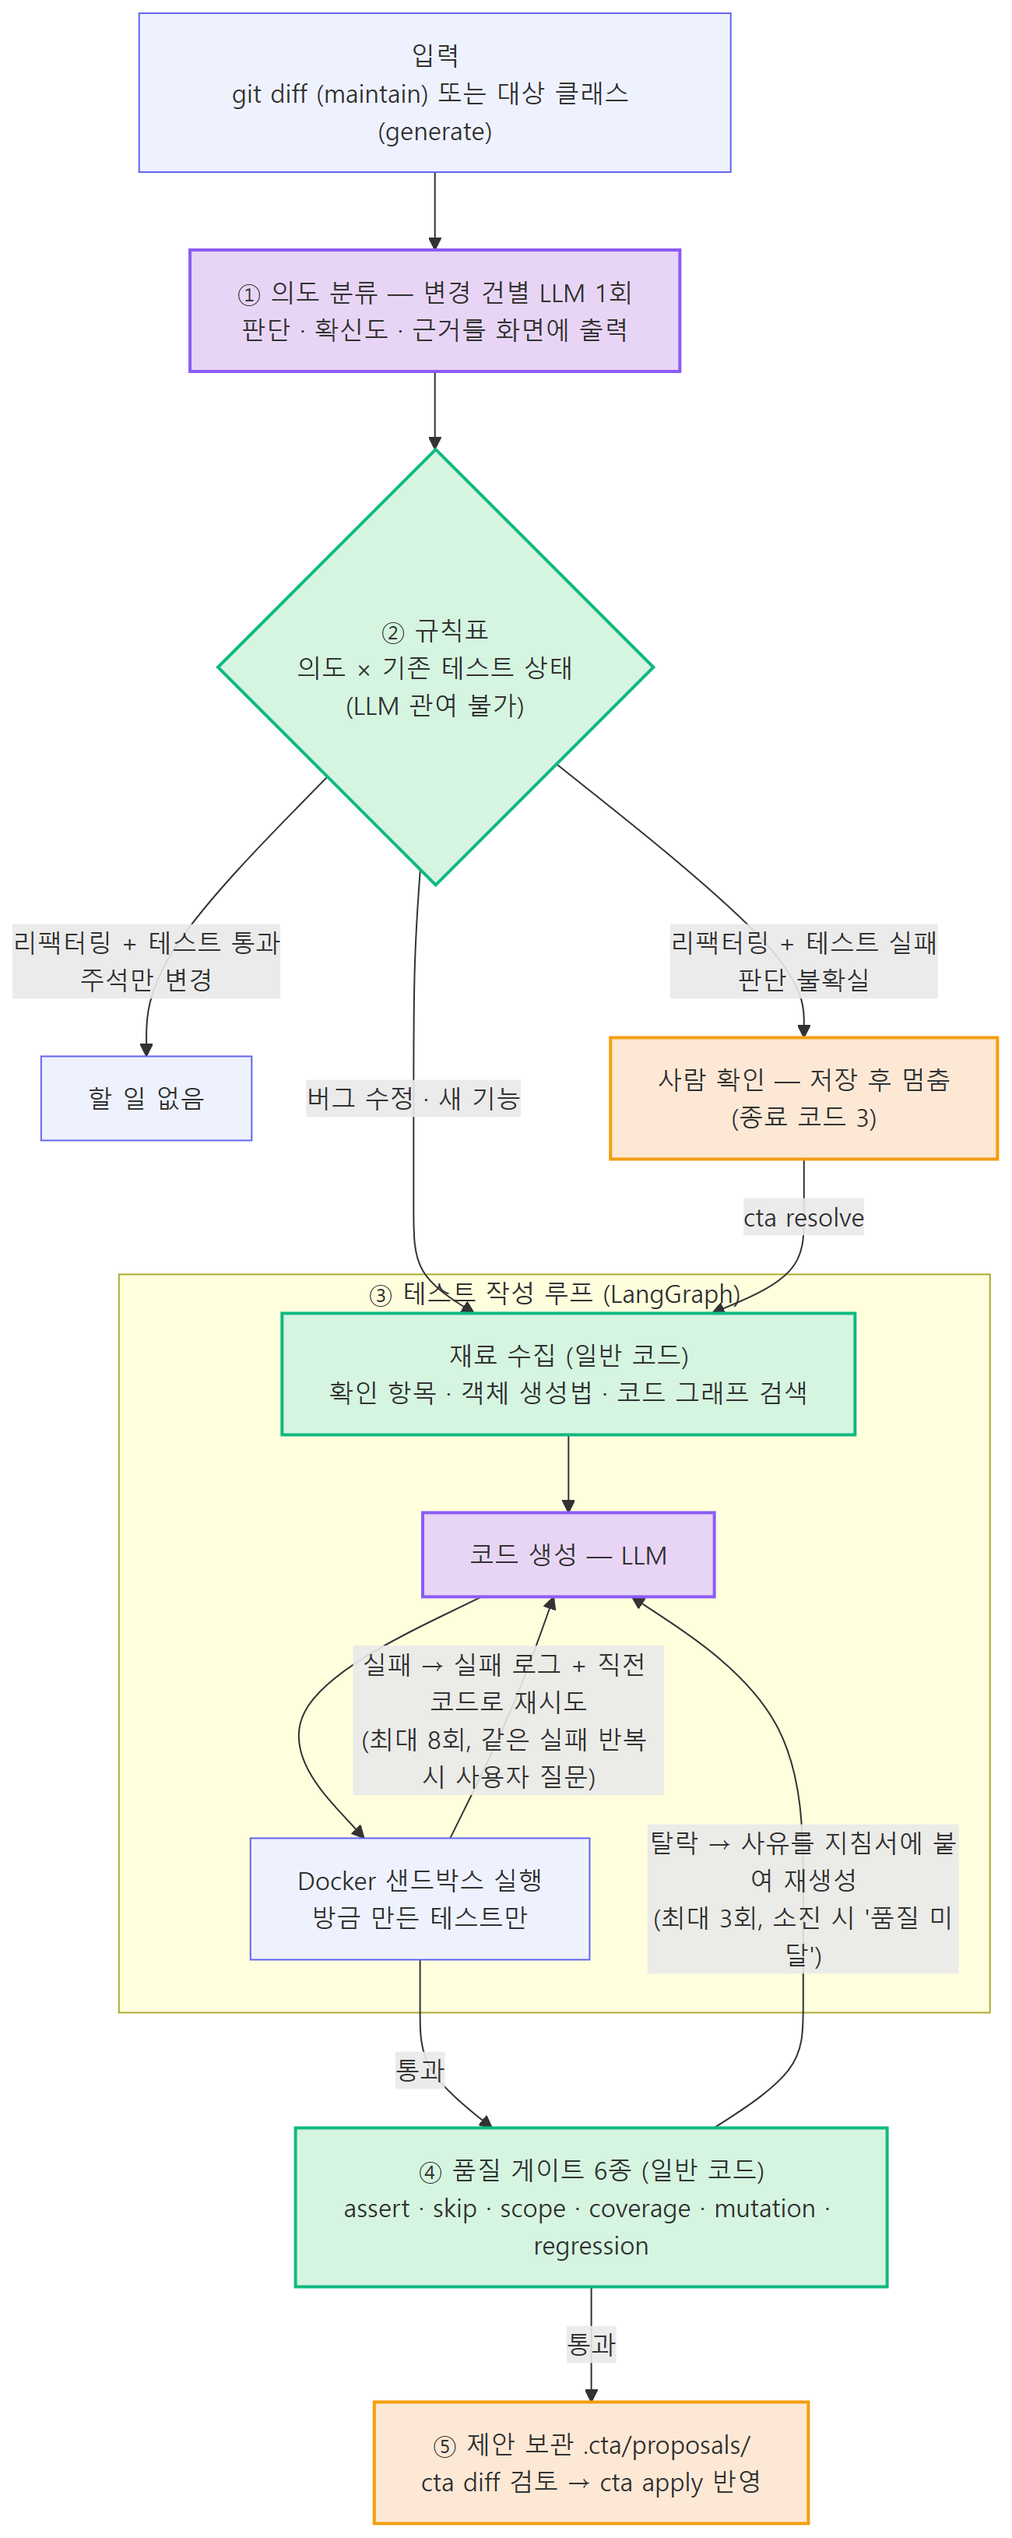
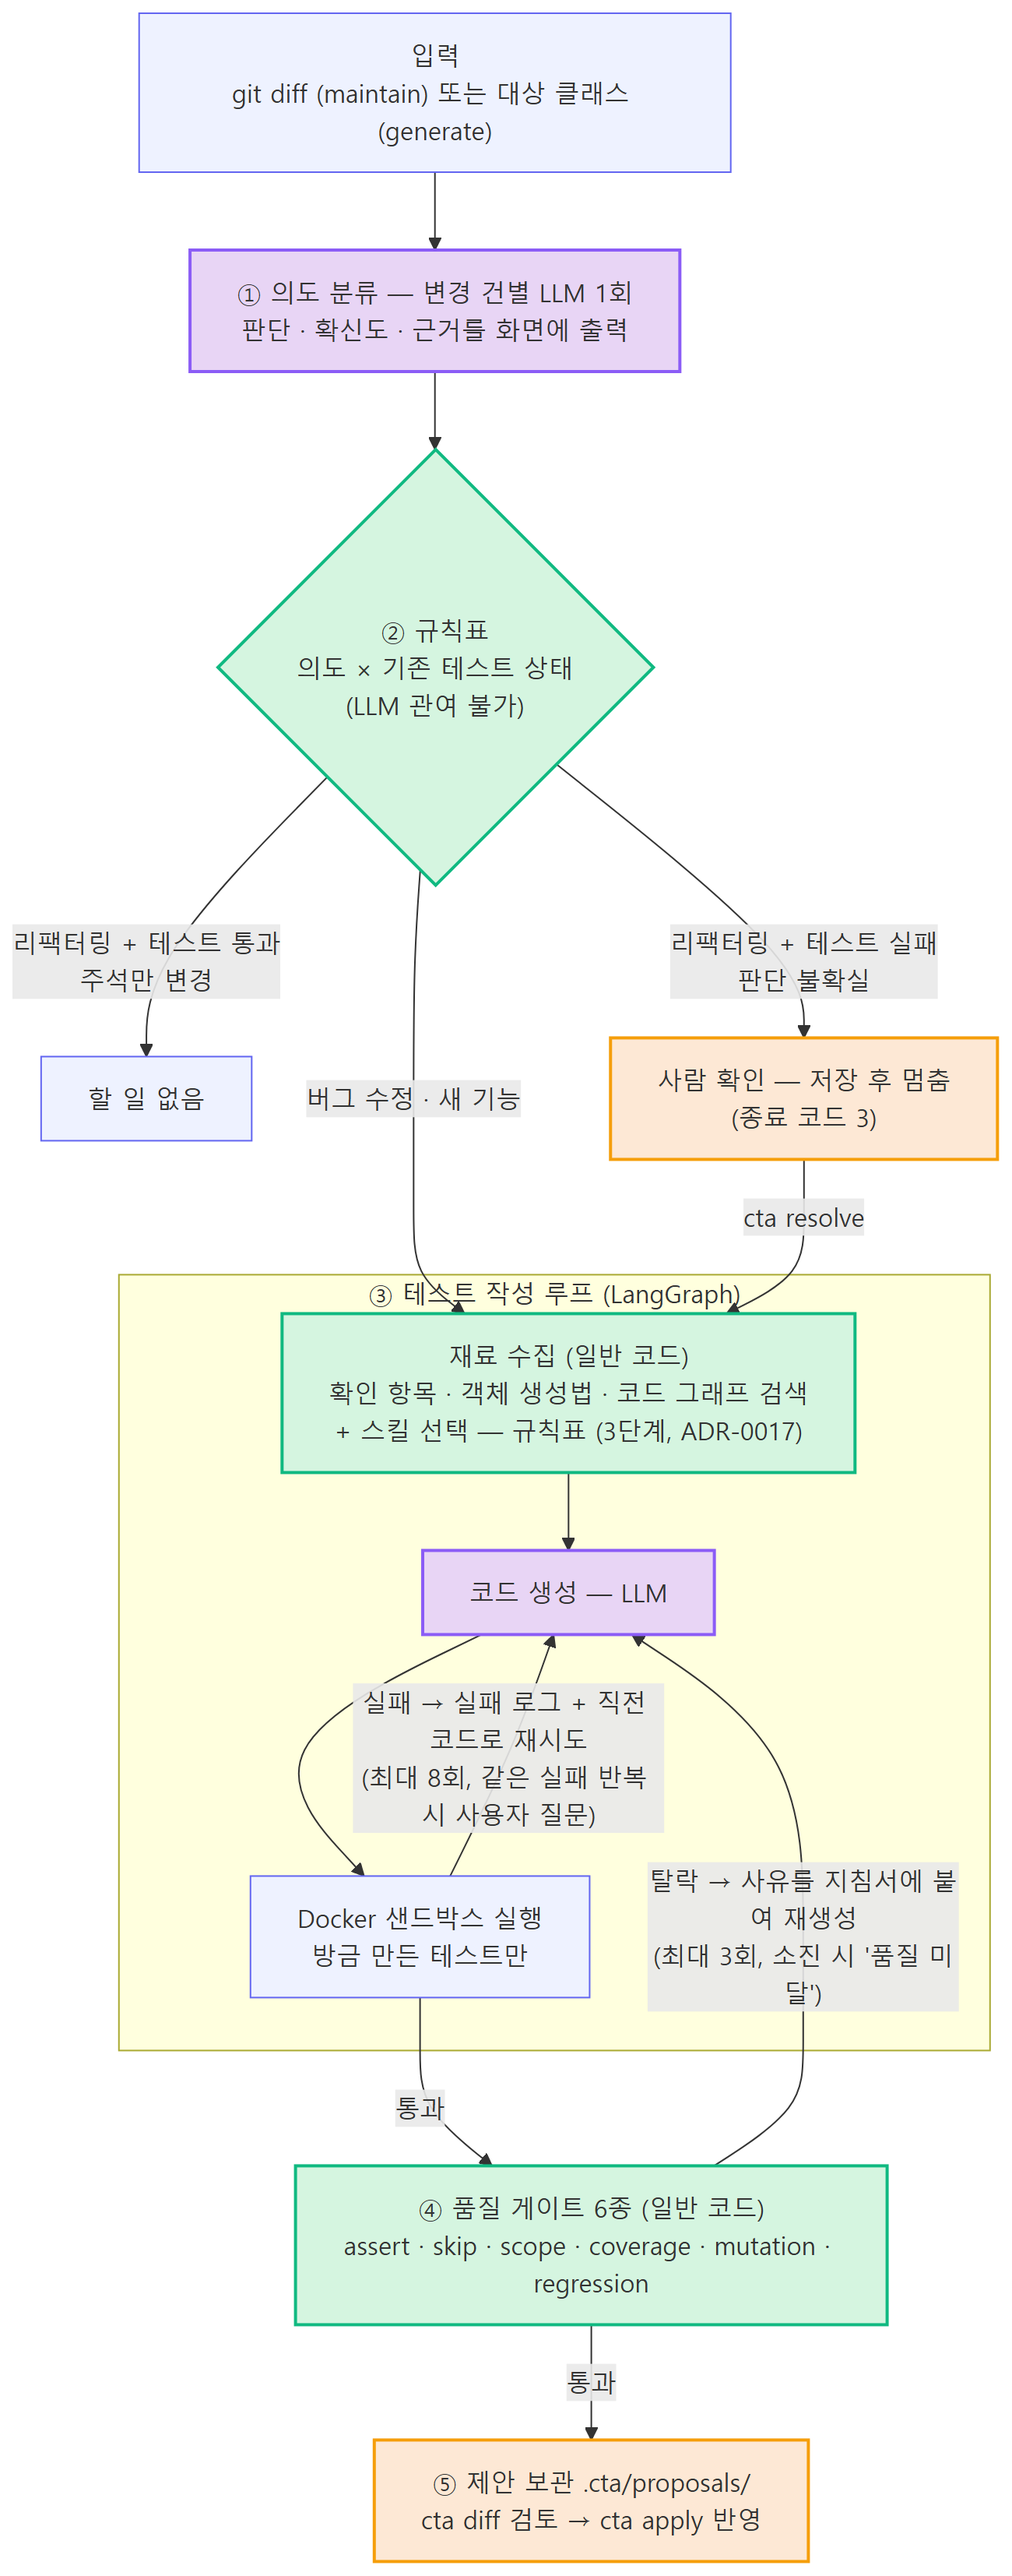
3단계 시각자료 6종 + 검토 기록 — 아키텍처·스킬 흐름·MCP 경로·설정 우선순위·CI/결함 세트·작업 상태
mermaid 원본(diagrams/*.mmd) → 로컬 Chrome 렌더(images/*.png). workflow-summary에
스킬 선택 단계 추가 후 재렌더. E2E서비스개발.md에 삽입, e2e-notes 4주차 검토
(고친 4건 + 개선 후보 6건) 기록.

Claude-Session: https://claude.ai/code/session_0113VFV3KPfVUepcfMbRGXqB

diff --git a/docs/E2E/e2e-notes.md b/docs/E2E/e2e-notes.md
@@ -13,8 +13,8 @@
   게이트웨이 키 없음) + `integration`(수동: `-m docker`, `-m neo4j` with Neo4j 서비스 컨테이너)
 - **A-2 설정 파일**: `core/config.py` `load_config` → `CtaConfig(gates, retry, gateway_timeout_sec, model,
   max_tokens_per_run)`. `cta.toml` 절 5개([gates][retry][gateway][llm][budget]). 우선순위 환경변수 > .env >
-  cta.toml > 코드 기본값 — cta.toml 값은 `make_llm_client(model_default, timeout_default)`가 setdefault로만
-  놓는다. 반복 상한은 `build_writer_graph(ask_every, max_total)` 인자. 토큰 예산은 `MeteredClient(max_tokens)`가
+  cta.toml > 코드 기본값 — cta.toml 값은 `make_llm_client(model_default, timeout_default)` 인자로만
+  들어간다(환경변수 미기록, 4주차 검토에서 setdefault를 제거). 반복 상한은 `build_writer_graph(ask_every, max_total)` 인자. 토큰 예산은 `MeteredClient(max_tokens)`가
   호출 전 검사 → `BudgetExceededError`. `gates.py`의 toml 해석은 `gate_config_from_toml`로 분리해 공유
 - **A-3 시크릿**: `sandbox/docker_sandbox.py` 인자 조립을 `build_run_args`(순수 함수)로 분리 — `-e`류 옵션이
   없음을 테스트로 고정(②). `llm/masking.py` `mask_secrets` — 환경변수의 키 값 + 키 모양(`atl-…`)을 `****`로,
@@ -57,6 +57,32 @@
   (generate/maintain/resolve/list_proposals/apply), 에이전트 내부 도구 6개(R4)와 별개. in-process `call_tool`로
   `list_proposals` 왕복 확인. Claude Code 등록·실호출은 측정 환경에서
 - **하지 않은 것**: `cta eval` v2 베이스라인 실측(Docker·게이트웨이), B-3 경계값 실험(수치 필요)
+
+### 4주차 검토 — 3단계 변경분 전체 diff 재검토 + 시각자료 (2026-09-06)
+
+사용자 요청으로 `62a9bfc..HEAD`의 코드 diff(약 1,960줄)를 처음 보는 눈으로 다시 읽었다. 고친 것 4건, 기록만 한 것 6건.
+
+**고친 것**
+
+| # | 문제 | 왜 문제인가 | 조치 |
+|---|---|---|---|
+| 1 | `make_llm_client`가 cta.toml의 모델·시간 초과를 `os.environ.setdefault`로 **환경변수에 써넣었다** | MCP 서버처럼 오래 사는 프로세스가 프로젝트 A → B를 차례로 다루면 A의 cta.toml 값이 "환경변수"가 되어 B의 cta.toml을 이긴다. 우선순위 규칙이 두 번째 프로젝트부터 깨진다 | 인자로만 전달: `GatewayClient(timeout_default)` + `.timeout` 속성, `model = 환경변수 or model_default or 기본값`. 테스트 `test_cta_toml_값은_환경변수에_남지_않는다` 추가 |
+| 2 | MCP 핸들러의 `redirect_stdout`은 프로세스 전역 — 서버가 도구 호출을 동시에 처리하면 두 호출의 화면이 섞인다 | 도구 결과가 뒤죽박죽이 되고, 최악의 경우 한 호출의 결과가 다른 호출로 간다 | `threading.Lock`으로 한 번에 하나만 실행. ADR-0018 3항 보강 |
+| 3 | Docker 미설치 시 `subprocess`의 `FileNotFoundError` 원문(Windows: "[WinError 2] 지정된 파일을 찾을 수 없습니다")에 'docker'가 없어 오류 안내가 Docker 문제로 알아보지 못했다 | 설치 직후 가장 흔한 실패에서 안내가 일반 오류로 빠진다 | 샌드박스가 'docker'를 담은 FileNotFoundError로 다시 던진다. 테스트 `TestDockerMissing` |
+| 4 | CI가 `pip install -e .`만 해서 MCP 서버 테스트가 `importorskip`으로 **항상 skip**됐다 | "CI 그린"이 MCP 등록·호출을 보증하지 않았다 | `pip install -e ".[mcp]"` |
+
+**기록만 한 것(개선 후보)**
+
+- 토큰 예산 검사는 **호출 전** 누적만 본다 — 한 번의 큰 호출이 상한을 넘을 수 있다. 응답 후 검사도 추가하려면 "이미 쓴 토큰"을 되돌릴 수 없으므로 의미가 작다. 문서에 명시
+- `parse_skill`은 frontmatter 종료를 첫 `\n---`로 찾는다 — 본문에 수평선(`---`)을 쓰면 잘못 자른다. 현재 스킬 2개는 해당 없음. 스킬 작성 규칙에 "본문에 `---` 금지"를 적어 둘 것
+- MCP는 동기 실행이라 generate 5~10분 동안 클라이언트가 기다린다(`MCP_TIMEOUT`). 비동기(시작/조회/결과)는 ADR-0018 후속
+- `PoC구현.md` 메타 표의 "단위 172건"은 1단계 시점 스냅샷이다. 현재 224건은 E2E 산출물에 있다 — PoC 문서는 그대로 둔다
+- `hints.py` 규칙표의 문구 일치(`"CTA_GATEWAY_API_KEY가 필요하다" in t`)는 gateway.py의 오류 문구와 한 쌍이다 — 문구를 바꾸면 테스트가 잡는다(`test_hints`)
+- 결함 세트 `Buggy.java`는 스크래치 스크립트로 생성했다(치환 1회). 케이스를 손으로 고치면 고친 소스와 어긋날 수 있다 — `check_defects.py`가 "고친 소스와 같음"·"동치 변이"는 잡지만 "치환이 1군데인가"는 안 본다. 필요하면 diff 줄 수 검사 추가
+
+**시각자료 6종 추가** (`docs/제출자료/diagrams/*.mmd` → `images/*.png`, 로컬 Chrome 렌더): `e2e-architecture`(3단계 신설 모듈이 층 구조 어디에 붙었나),
+`skills-flow`(신호 → 규칙표 → 스킬 → 프롬프트), `mcp-path`(Claude Code → cta-mcp → 핸들러 → cli 함수), `config-precedence`(설정 4단계 우선순위와 행선지),
+`ci-and-defects`(CI 두 잡 + 결함 세트 자기 검사), `e2e-status`(작업 항목별 완료/대기). 기존 `workflow-summary`에 스킬 선택 단계를 추가해 재렌더.
 
 ## 검증 기록
 
